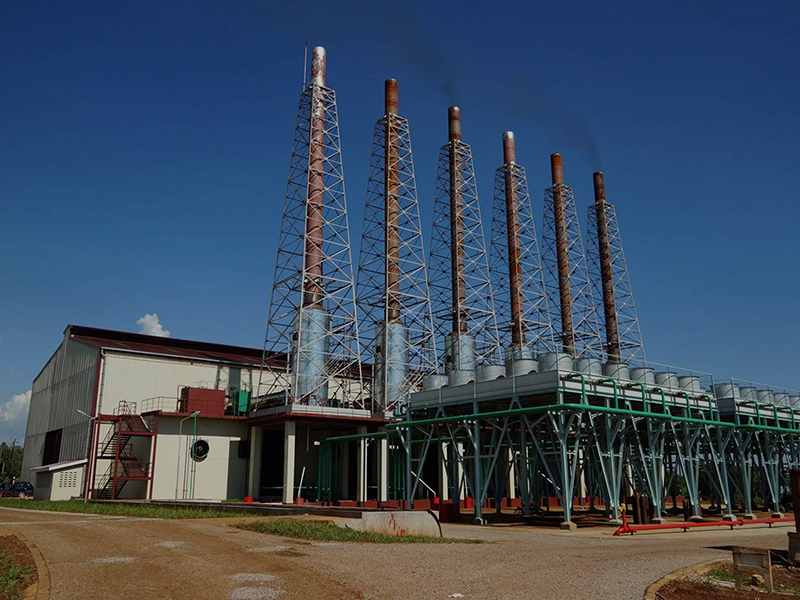
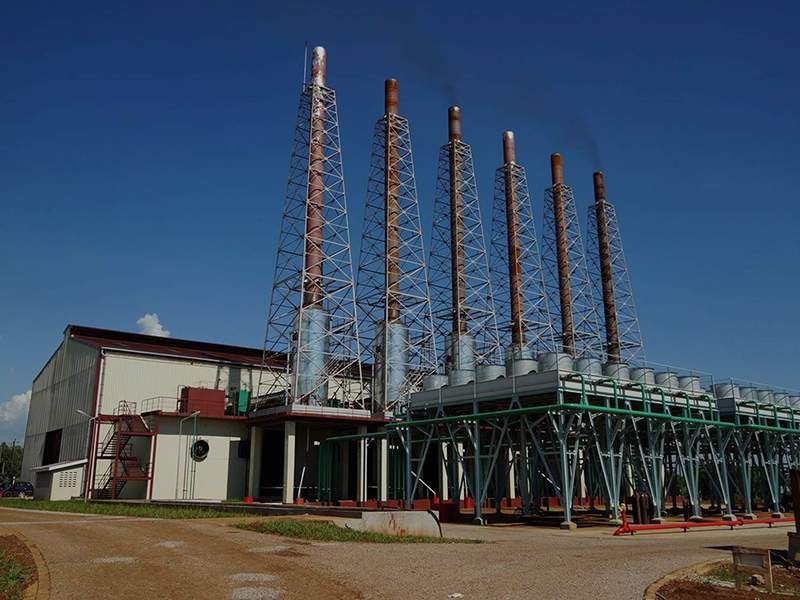
Optimized Images

diff --git a/index.html b/index.html
@@ -82,7 +82,7 @@
   <div class="banner_content">
    <div class="media row justify-content-center">
      <div class="col-lg-6 d-flex justify-content-center align-items-center text-center">
-       <img class="img text-center img-responsive" style="max-width: 100%; max-height: 400px;" src="assets/img/pb.jpeg" alt="">
+       <img class="img text-center img-responsive" style="max-width: 100%; max-height: 400px;" src="assets/img/pb.png" alt="">
      </div>
      <div class="media-body col-xl-6 col-lg-12 col-md-12 justify-content-center align-items-center text-center">
       <div class="container carousel carousel-fade text-center mb-3">
